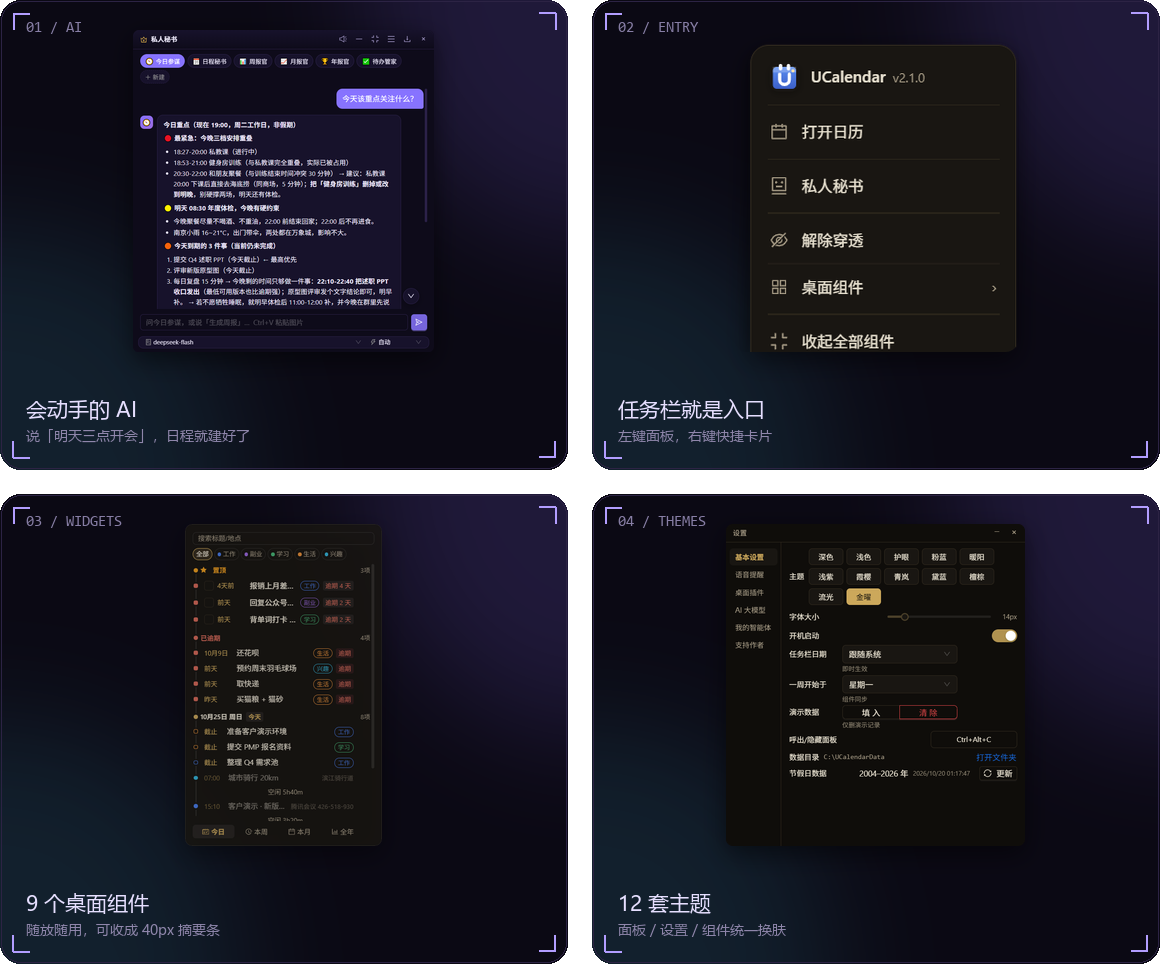
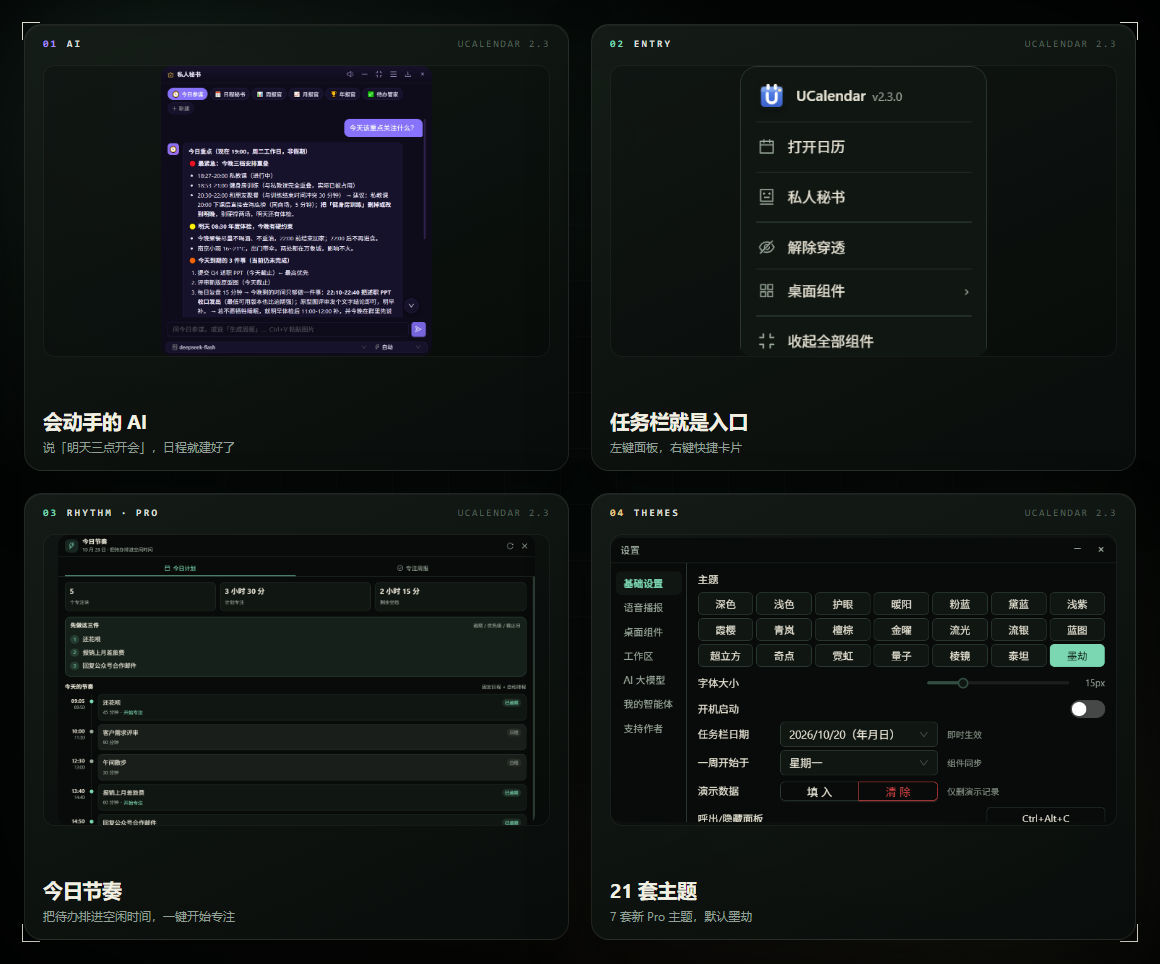
docs: 更新 README 与 2.3.0 截图

diff --git a/README.md b/README.md
@@ -22,12 +22,12 @@
   <img src="assets/readme/showcase.png" width="100%" alt="UCalendar 主面板：月历、日程、待办、黄历、天气">
 </p>
 
-<p align="center"><sub>左键点任务栏时钟 —— 今天有没有会、这周还剩多少事，一屏说完</sub></p>
+<p align="center"><sub>默认墨劫主题 —— 左键点任务栏时钟，今天有没有会、这周还剩多少事，一屏说完</sub></p>
 
 ## 02 — CAPABILITIES
 
 <p align="center">
-  <img src="assets/readme/capabilities.png" width="100%" alt="AI 小秘书、任务栏入口、桌面组件、主题">
+  <img src="assets/readme/capabilities.png" width="100%" alt="AI 小秘书、任务栏入口、今日节奏、21 套主题">
 </p>
 
 ## 03 — 9 个桌面组件
@@ -58,7 +58,7 @@ AI：已写入日历
 ## 05 — DETAILS
 
 <p align="center">
-  <img src="assets/readme/stats.png" width="100%" alt="9 个组件、14 套主题、8 MB 单文件、0 个需要注册的账号">
+  <img src="assets/readme/stats.png" width="100%" alt="9 个组件、21 套主题、8 MB 单文件、0 个需要注册的账号">
 </p>
 
 - **提醒 2.0**：日程 / 待办可设多个提前提醒点，同一时刻只提醒一次，Toast 可推迟，旧数据自动兼容
@@ -68,7 +68,8 @@ AI：已写入日历
 - **便签落库**：SQLite 持久化，支持标签、删除进回收站、Markdown 导出，旧 localStorage 自动迁移
 - **日历**：农历 / 节气 / 节假日调休 / 黄历宜忌；日程支持自然语言输入、重复规则
 - **语音播报**：整点报时、久坐提醒、日程提醒，可换音色与语速，报时文案支持变量
-- **主题**：14 套（深色 / 浅色 / 护眼 / 暖阳 / 粉蓝 / 浅紫 / 霞樱 / 青岚 / 黛蓝 / 檀棕 + 支持者专属「金曜」「流光」「流银」「蓝图」）
+- **主题**：21 套（深色 / 浅色 / 护眼 / 暖阳 / 粉蓝 / 浅紫 / 霞樱 / 青岚 / 黛蓝 / 檀棕 + 支持者专属「金曜」「流光」「流银」「蓝图」「超立方」「奇点」「霓虹」「量子」「棱镜」「泰坦」「墨劫」）
+- **默认主题**：Pro 首启「墨劫」（未解锁高级主题时回退「粉蓝」），Lite 首启「深色」；已经选过主题的用户保持自己的选择
 - **入口**：左键任务栏时钟呼出面板，右键是自绘快捷卡片，托盘图标常驻，`Ctrl+Alt+C` 全局热键，支持开机自启
 - **数据**：默认存在 exe 同目录 `data\`，便携模式拷走文件夹 = 带走全部数据
 
@@ -86,8 +87,9 @@ AI：已写入日历
 
 日程和待办一直免费，没有广告、不订阅、不联网。20 元起自愿支持，感谢回馈 **UCalendar Pro**：
 
+- 解锁「今日节奏」：本地确定性日计划 + 专注完成提示 + 近 7 天专注周报
 - 解锁世界时钟、秒表、时间进度与「工作区预设」
-- 解锁 10 套高级主题（含「金曜」「流光」「流银」「蓝图」）
+- 解锁 17 套高级主题（含「金曜」「流光」「流银」「蓝图」「超立方」「奇点」「霓虹」「量子」「棱镜」「泰坦」「墨劫」）
 - 前 100 位记为**创始支持者**，其余为**同行者**（可匿名）
 - 优先答疑，作者亲自回复（附《用户手册》）
 
